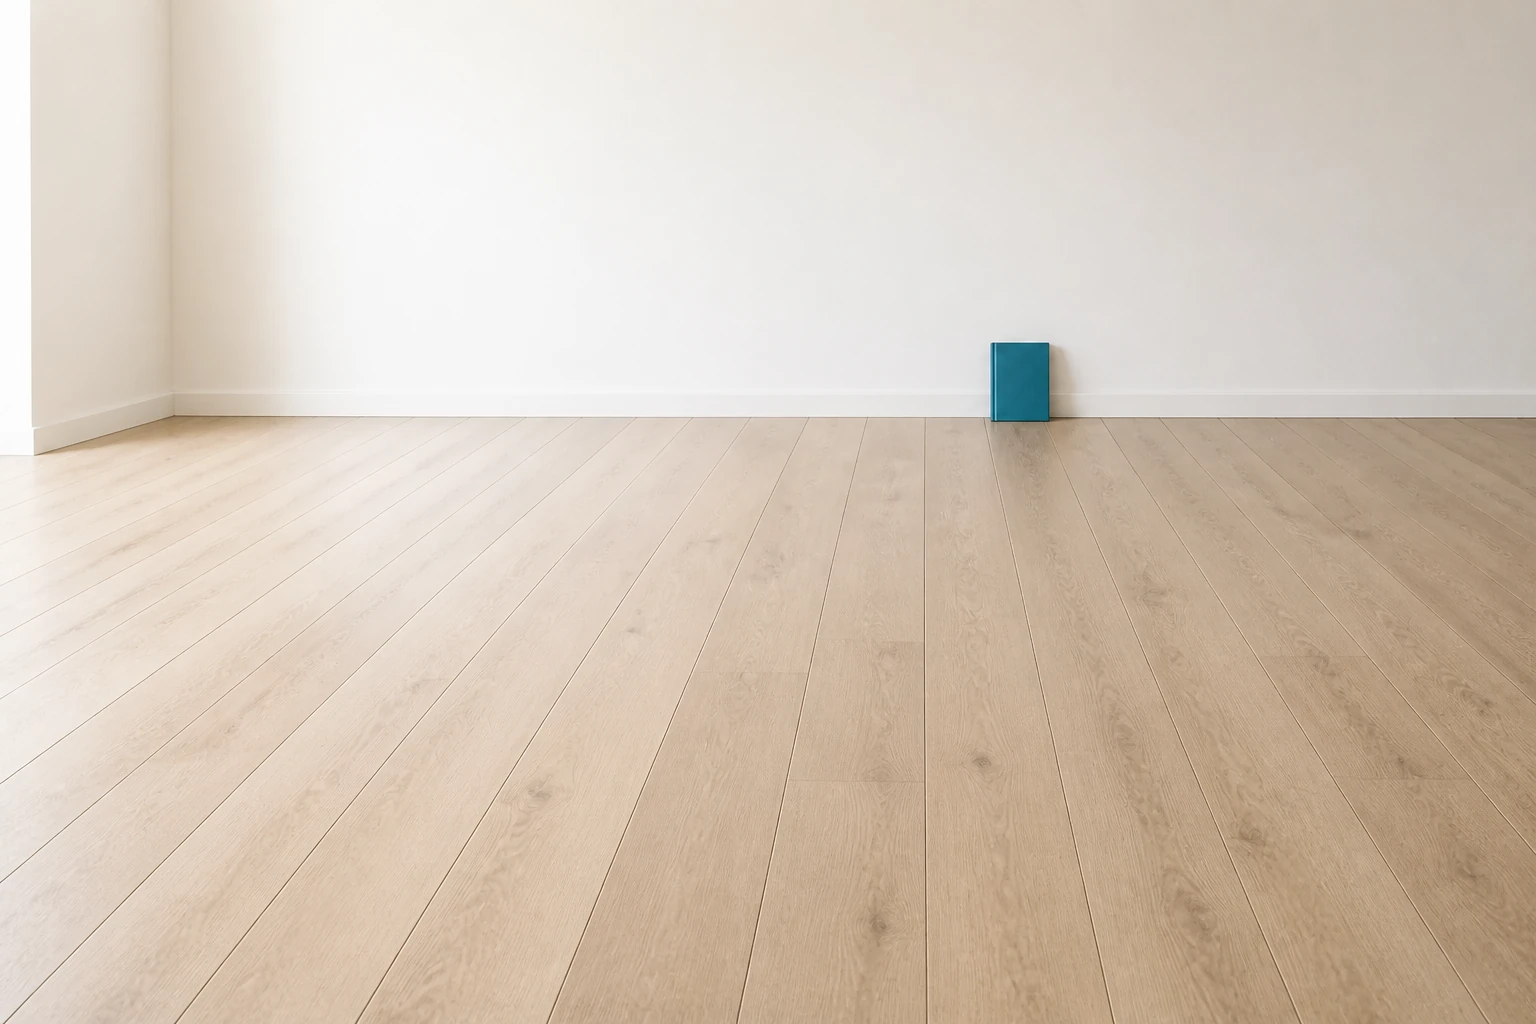
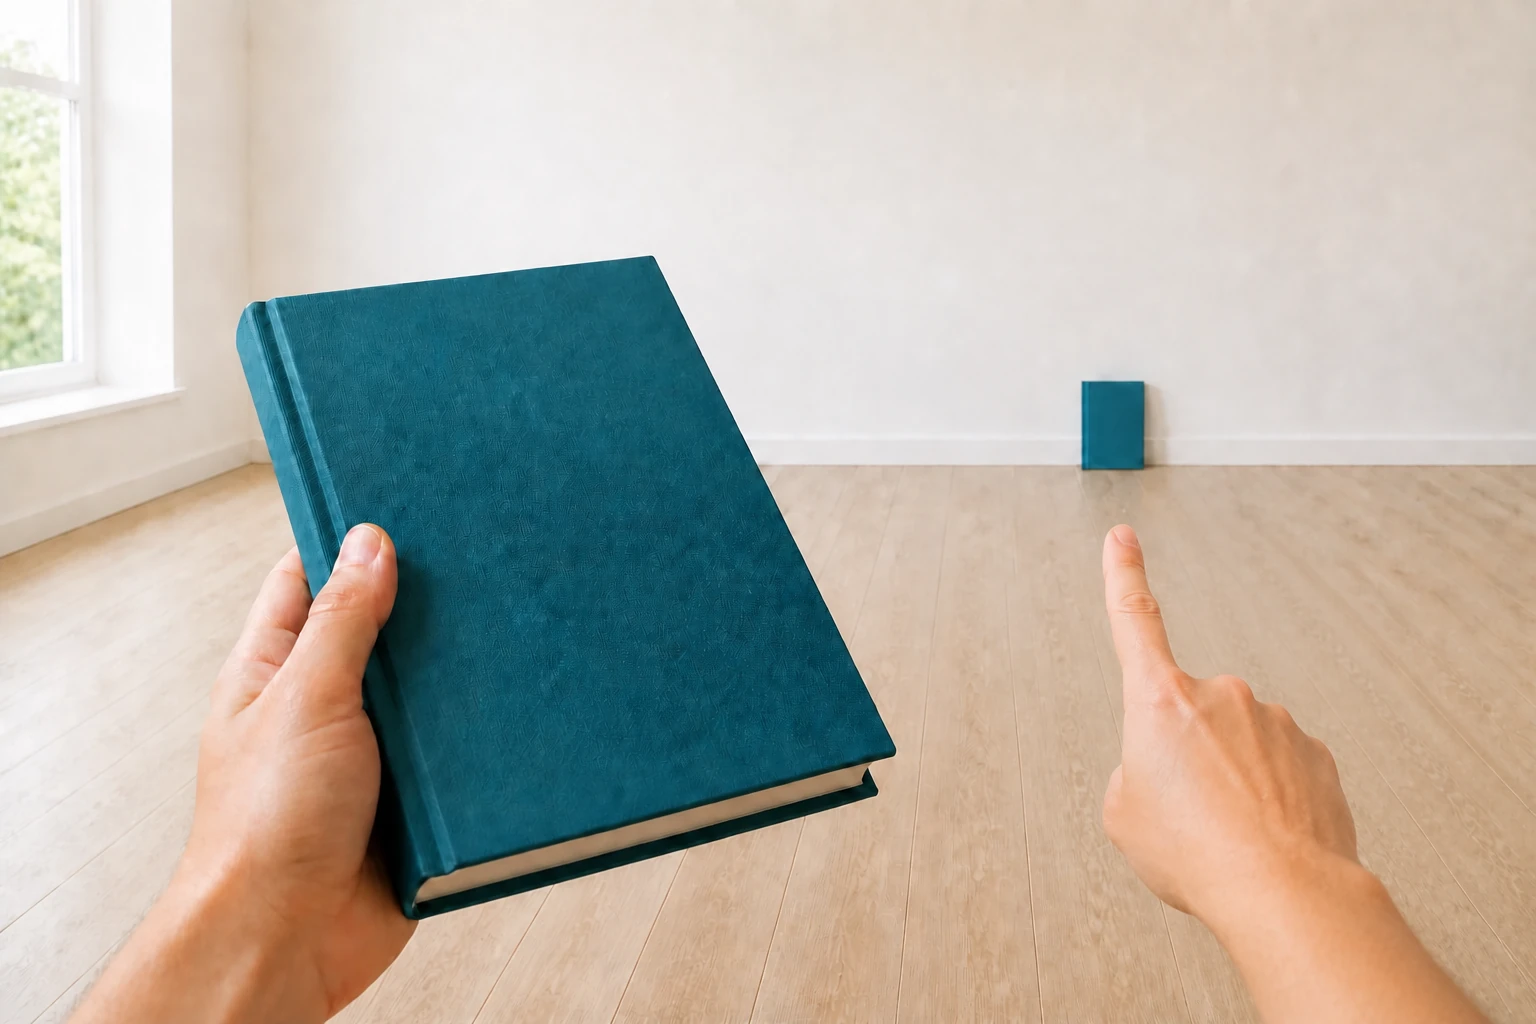
Clarify this and that pointing visuals

diff --git a/docs/product/project-guardrails.md b/docs/product/project-guardrails.md
@@ -147,6 +147,7 @@ Do not force every word through every step in a single lesson when that would ma
 - Place and transport images must communicate through visual context rather than answer text. Only the hospital asset may use a single `H`; restaurant, train, station, bank, pharmacy, library, school, and store assets must contain no venue words or answer letters. A bank scene must include an unmistakable banking action or object, such as a clearly visible customer using an ATM, rather than relying on generic institutional architecture.
 - The intended answer must be visually unambiguous. Avoid near-duplicate scenes for reading versus studying, smiling versus talking, or standing versus sitting.
 - Every authored scene contract must resolve to a literal depiction of that card's complete teaching concept. Never substitute a generic person, conversation, object, or other available stock image merely because the exact scene is missing. A selectable option tile depicts one answer concept only; its opposite, distractor, or comparison belongs in a separate tile, not a split-screen, grid, or second panel inside the same image. If no accurate source exists, create and review a dedicated 3:2 asset or stop the media build with an actionable error.
+- Lesson 2.5 `this`/`that` pairs use the same first-person room, nearby object, and matching distant object. In both states, the left hand keeps holding or gripping the nearby object. For `this`, the right hand points to that held nearby object; for `that`, the same right hand points to the matching distant object while the nearby object remains held and visible. The pointing target is the only teaching variable; never remove the nearby reference or both hands from the `that` state. Keep distant targets identifiable at mobile size, preserve a visibly stronger near/far size contrast, and stop the pointing fingertip visibly short of the distant object without overlapping its silhouette or implying touch.
 - For negative action or posture prompts, the correct image must visibly exclude the negated state. Showing people talking while seated is not a valid answer for `They are not sitting`; use a clearly upright or moving scene.
 - Judge every option against the complete spoken or written prompt, not its asset name or intended option ID. Every distractor must be visibly false for that complete prompt.
 - Do not use category subsets or supertypes as image distractors when both can satisfy the prompt. Brothers, sisters, and babies are children; parents and grandparents are adults; and a family scene contains children, siblings, parents, and grandparents.
